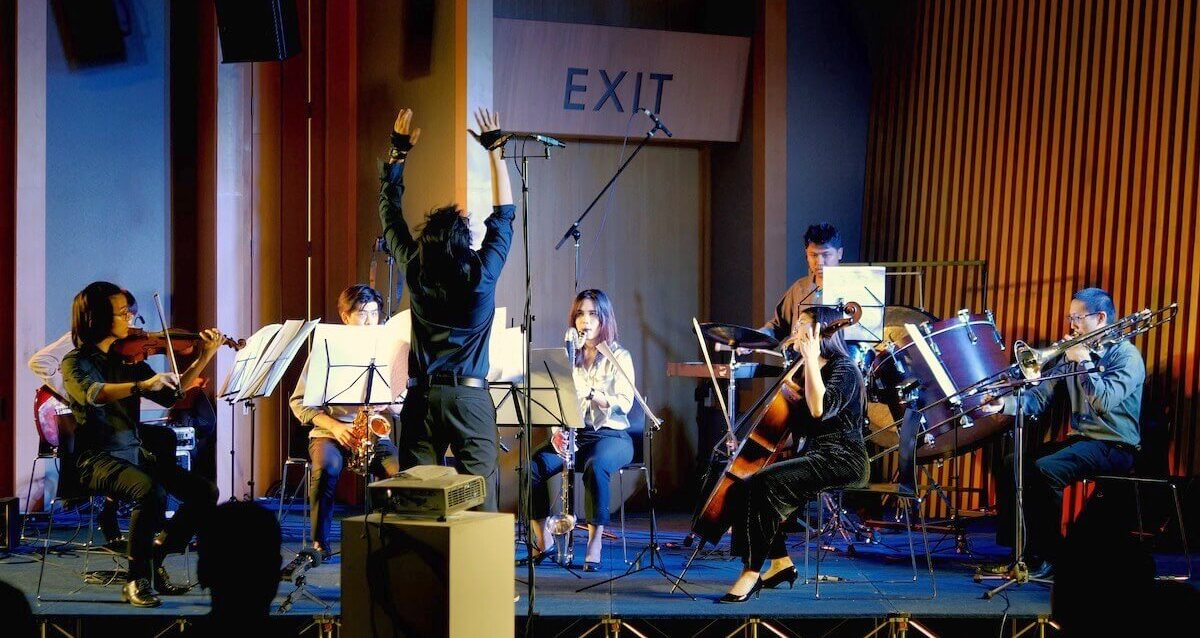
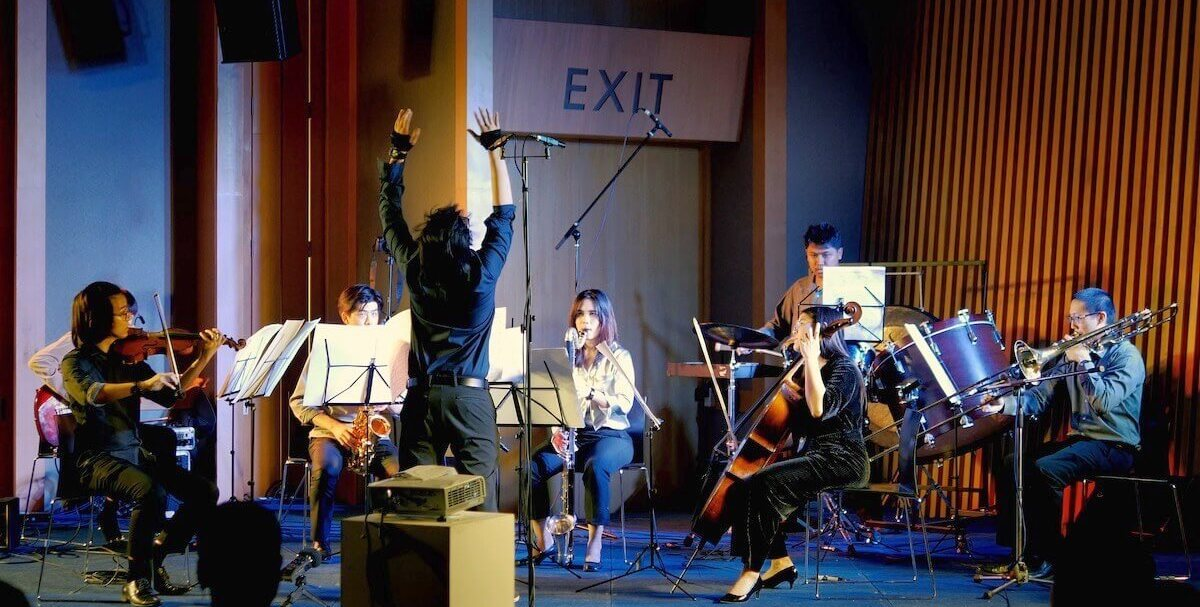
afir

diff --git a/_works/all-forgetting-is-retrieval.md b/_works/all-forgetting-is-retrieval.md
@@ -24,7 +24,7 @@ tags:
 media:
   - title: "all-forgetting-is-retrieval (2019) by Jason Thorpe Buchanan"
     url:
-headerImage: works-images/afir-1200x675.jpg
+headerImage: works-images/afir-1080.jpg
 portWrapper: works-images/port-wrapper/afir-640x360.jpg
 photosFolder: all-forgetting-is-retrieval
 

diff --git a/_posts/concerts-with-my-music/2019/2019-07-07-TACETi-afir.md b/_posts/concerts-with-my-music/2019/2019-07-07-TACETi-afir.md
@@ -17,7 +17,7 @@ program:
     year: 2019
   - composer:
     title:
-headerImage: headers/afir-1200x675.jpg
+headerImage: headers/afir-1080.jpg
 thumbnail: updates/afir-280-143.jpg
 photosFolder: all-forgetting-is-retrieval
 tags:
